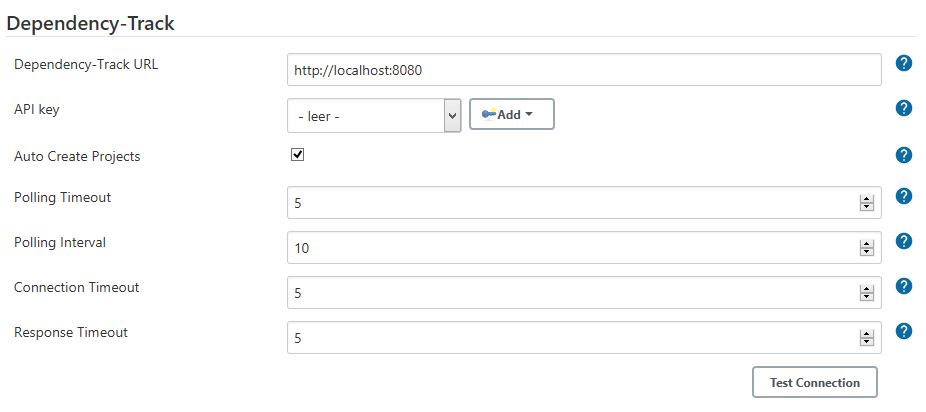
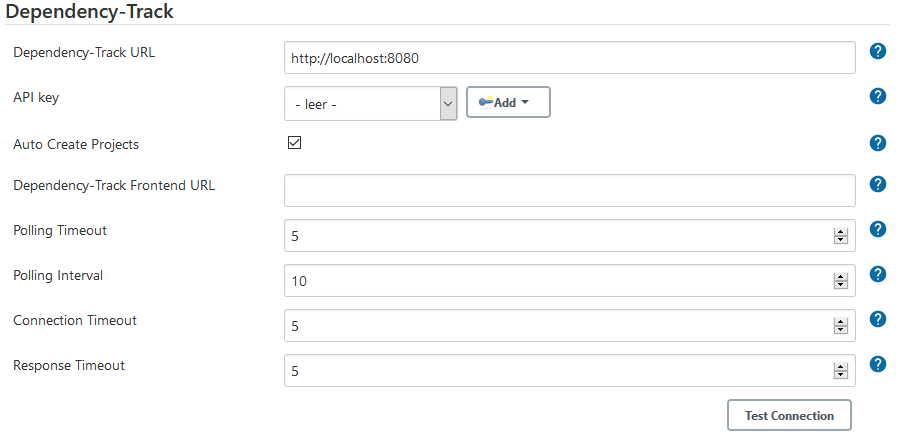
allow to specify an alternative URL to the frontend of Dependency-Track The frontend may be hosted on a different server and links in the log or result actions will not work in this case.
references #22

diff --git a/src/main/webapp/help-dt-url-frontend.html b/src/main/webapp/help-dt-url-frontend.html
@@ -1,0 +1,4 @@
+<div>
+    The alternative base URL to the Frontend of Dependency-Track v3 or higher. (i.e. http://hostname:port)
+    <p>Use this if you run backend and frontend on different servers. If omitted, "Dependency-Track URL" will be used instead.</p>
+</div>

diff --git a/src/main/java/org/jenkinsci/plugins/DependencyTrack/DependencyTrackPublisher.java b/src/main/java/org/jenkinsci/plugins/DependencyTrack/DependencyTrackPublisher.java
@@ -85,6 +85,11 @@ public final class DependencyTrackPublisher extends ThresholdCapablePublisher im
     private String dependencyTrackUrl;
 
     /**
+     * Specifies the alternative base URL to the frontend of Dependency-Track v3 or higher.
+     */
+    private String dependencyTrackFrontendUrl;
+
+    /**
      * Specifies the credential-id for an API Key used for authentication.
      */
     private String dependencyTrackApiKey;
@@ -168,12 +173,12 @@ public final class DependencyTrackPublisher extends ThresholdCapablePublisher im
         }
 
         // add ResultLinkAction even if it may not contain a projectId. but we want to store name version for the future.
-        final ResultLinkAction linkAction = new ResultLinkAction(effectiveUrl, projectId);
+        final ResultLinkAction linkAction = new ResultLinkAction(getEffectiveFrontendUrl(), projectId);
         linkAction.setProjectName(effectiveProjectName);
         linkAction.setProjectVersion(effectiveProjectVersion);
         run.addOrReplaceAction(linkAction);
 
-        logger.log(Messages.Builder_Success(String.format("%s/projects/%s", effectiveUrl, projectId != null ? projectId : StringUtils.EMPTY)));
+        logger.log(Messages.Builder_Success(String.format("%s/projects/%s", getEffectiveFrontendUrl(), projectId != null ? projectId : StringUtils.EMPTY)));
 
         if (synchronous && StringUtils.isNotBlank(uploadResult.getToken())) {
             publishAnalysisResult(logger, apiClient, uploadResult.getToken(), run, effectiveProjectName, effectiveProjectVersion);
@@ -203,12 +208,12 @@ public final class DependencyTrackPublisher extends ThresholdCapablePublisher im
         final SeverityDistribution severityDistribution = new SeverityDistribution(build.getNumber());
         findings.stream().map(Finding::getVulnerability).map(Vulnerability::getSeverity).forEach(severityDistribution::add);
         final ResultAction projectAction = new ResultAction(findings, severityDistribution);
-        projectAction.setDependencyTrackUrl(getEffectiveUrl());
+        projectAction.setDependencyTrackUrl(getEffectiveFrontendUrl());
         projectAction.setProjectId(projectId);
         build.addOrReplaceAction(projectAction);
 
         // update ResultLinkAction with one that surely contains a projectId
-        final ResultLinkAction linkAction = new ResultLinkAction(getEffectiveUrl(), projectId);
+        final ResultLinkAction linkAction = new ResultLinkAction(getEffectiveFrontendUrl(), projectId);
         linkAction.setProjectName(effectiveProjectName);
         linkAction.setProjectVersion(effectiveProjectVersion);
         build.addOrReplaceAction(linkAction);
@@ -263,7 +268,7 @@ public final class DependencyTrackPublisher extends ThresholdCapablePublisher im
         if (descriptor == null) {
             descriptor = getDescriptor();
         }
-        overrideGlobals = StringUtils.isNotBlank(dependencyTrackUrl) || StringUtils.isNotBlank(dependencyTrackApiKey) || autoCreateProjects != null;
+        overrideGlobals = StringUtils.isNotBlank(dependencyTrackUrl) ||StringUtils.isNotBlank(dependencyTrackFrontendUrl) || StringUtils.isNotBlank(dependencyTrackApiKey) || autoCreateProjects != null;
         return this;
     }
 
@@ -277,6 +282,7 @@ public final class DependencyTrackPublisher extends ThresholdCapablePublisher im
     private Object writeReplace() throws java.io.ObjectStreamException {
         if (!overrideGlobals) {
             dependencyTrackUrl = null;
+            dependencyTrackFrontendUrl = null;
             dependencyTrackApiKey = null;
             autoCreateProjects = null;
         }
@@ -294,6 +300,15 @@ public final class DependencyTrackPublisher extends ThresholdCapablePublisher im
     private String getEffectiveUrl() {
         String url = Optional.ofNullable(PluginUtil.parseBaseUrl(dependencyTrackUrl)).orElse(descriptor.getDependencyTrackUrl());
         return Optional.ofNullable(url).orElse(StringUtils.EMPTY);
+    }
+
+    /**
+     * @return effective dependencyTrackFrontendUrl
+     */
+    @NonNull
+    private String getEffectiveFrontendUrl() {
+        String url = Optional.ofNullable(PluginUtil.parseBaseUrl(dependencyTrackFrontendUrl)).orElse(descriptor.getDependencyTrackFrontendUrl());
+        return Optional.ofNullable(url).orElse(getEffectiveUrl());
     }
 
     /**

diff --git a/src/test/java/org/jenkinsci/plugins/DependencyTrack/DependencyTrackPublisherTest.java b/src/test/java/org/jenkinsci/plugins/DependencyTrack/DependencyTrackPublisherTest.java
@@ -257,6 +257,7 @@ public class DependencyTrackPublisherTest {
         DependencyTrackPublisher uut = new DependencyTrackPublisher(tmp.getName(), true, clientFactory);
         uut.setAutoCreateProjects(Boolean.TRUE);
         uut.setDependencyTrackUrl("foo");
+        uut.setDependencyTrackFrontendUrl("foo-ui");
         uut.setDependencyTrackApiKey("bar");
         uut.setOverrideGlobals(false);
 
@@ -268,6 +269,7 @@ public class DependencyTrackPublisherTest {
         try (ObjectInputStream ois = new ObjectInputStream(new ByteArrayInputStream(baos.toByteArray()))) {
             assertThat(ois.readObject()).isInstanceOfSatisfying(DependencyTrackPublisher.class, actual -> {
                 assertThat(actual.getDependencyTrackUrl()).isNull();
+                assertThat(actual.getDependencyTrackFrontendUrl()).isNull();
                 assertThat(actual.getDependencyTrackApiKey()).isNull();
                 assertThat(actual.getAutoCreateProjects()).isNull();
                 assertThat(actual.isOverrideGlobals()).isFalse();
@@ -281,6 +283,7 @@ public class DependencyTrackPublisherTest {
         DependencyTrackPublisher uut = new DependencyTrackPublisher(tmp.getName(), true, clientFactory);
         uut.setAutoCreateProjects(Boolean.TRUE);
         uut.setDependencyTrackUrl("foo");
+        uut.setDependencyTrackFrontendUrl("foo-ui");
         uut.setDependencyTrackApiKey("bar");
         uut.setOverrideGlobals(true);
 
@@ -292,6 +295,7 @@ public class DependencyTrackPublisherTest {
         try (ObjectInputStream ois = new ObjectInputStream(new ByteArrayInputStream(baos.toByteArray()))) {
             assertThat(ois.readObject()).isInstanceOfSatisfying(DependencyTrackPublisher.class, actual -> {
                 assertThat(actual.getDependencyTrackUrl()).isEqualTo("foo");
+                assertThat(actual.getDependencyTrackFrontendUrl()).isEqualTo("foo-ui");
                 assertThat(actual.getDependencyTrackApiKey()).isEqualTo("bar");
                 assertThat(actual.getAutoCreateProjects()).isTrue();
                 assertThat(actual.isOverrideGlobals()).isTrue();

diff --git a/src/main/java/org/jenkinsci/plugins/DependencyTrack/DescriptorImpl.java b/src/main/java/org/jenkinsci/plugins/DependencyTrack/DescriptorImpl.java
@@ -71,6 +71,12 @@ public final class DescriptorImpl extends BuildStepDescriptor<Publisher> impleme
     private String dependencyTrackUrl;
 
     /**
+     * Specifies the alternative base URL to the frontend of Dependency-Track v3 or higher.
+     */
+    @Setter(onMethod_ = {@DataBoundSetter})
+    private String dependencyTrackFrontendUrl;
+
+    /**
      * Specifies an API Key used for authentication (if authentication is
      * required).
      */
@@ -191,6 +197,16 @@ public final class DescriptorImpl extends BuildStepDescriptor<Publisher> impleme
     }
 
     /**
+     * Performs input validation when submitting the global config
+     *
+     * @param value The value of the URL as specified in the global config
+     * @return a FormValidation object
+     */
+    public FormValidation doCheckDependencyTrackFrontendUrl(@QueryParameter String value) {
+        return PluginUtil.doCheckUrl(value);
+    }
+
+    /**
      * Performs an on-the-fly check of the Dependency-Track URL and api key
      * parameters by making a simple call to the server and validating the
      * response code.
@@ -249,6 +265,14 @@ public final class DescriptorImpl extends BuildStepDescriptor<Publisher> impleme
     @CheckForNull
     public String getDependencyTrackUrl() {
         return PluginUtil.parseBaseUrl(dependencyTrackUrl);
+    }
+
+    /**
+     * @return global configuration for dependencyTrackFrontendUrl
+     */
+    @CheckForNull
+    public String getDependencyTrackFrontendUrl() {
+        return PluginUtil.parseBaseUrl(dependencyTrackFrontendUrl);
     }
 
     /**

diff --git a/src/test/java/org/jenkinsci/plugins/configuration/ConfigurationAsCodeTest.java b/src/test/java/org/jenkinsci/plugins/configuration/ConfigurationAsCodeTest.java
@@ -23,6 +23,7 @@ public class ConfigurationAsCodeTest {
 
         assertThat(descriptor)
                 .returns("https://example.org/deptrack", DescriptorImpl::getDependencyTrackUrl)
+                .returns("https://ui.example.org", DescriptorImpl::getDependencyTrackFrontendUrl)
                 .returns("R4nD0m", DescriptorImpl::getDependencyTrackApiKey)
                 .returns(false, DescriptorImpl::isDependencyTrackAutoCreateProjects)
                 .returns(5, DescriptorImpl::getDependencyTrackPollingTimeout)

diff --git a/README.md b/README.md
@@ -34,6 +34,8 @@ To setup, navigate to Jenkins > System Configuration and complete the Dependency
 
 **Auto Create Projects**: auto creation of projects by giving a project name and version. The API key provided requires the `PROJECT_CREATION_UPLOAD` permission to use this feature.
 
+**Dependency-Track Frontend URL**: alternative URL to the Frontend of your Dependency-Track instance. Use this if you run backend and frontend on different servers. If omitted, "Dependency-Track URL" will be used instead.
+
 **Polling Timeout**: Defines the maximum number of minutes to wait for Dependency-Track to process a job when using synchronous publishing.
 
 **Polling Interval**: Defines the number of seconds to wait between two checks for Dependency-Track to process a job when using synchronous publishing.
@@ -57,7 +59,7 @@ Once configured with a valid URL and API key, simply configure a job to publish 
 
 **Enable synchronous publishing mode**: Uploads a SBOM to Dependency-Track and waits for Dependency-Track to process and return results. The results returned are identical to the auditable findings but exclude findings that have previously been suppressed. Analysis decisions and vulnerability details are included in the response. Synchronous mode is possible with Dependency-Track v3.3.1 and higher.
 
-**Override global settings**: Allows to override global settings for "Auto Create Projects", "Dependency-Track URL" and "API key".
+**Override global settings**: Allows to override global settings for "Auto Create Projects", "Dependency-Track URL", "Dependency-Track Frontend URL" and "API key".
 
 ### Thresholds
 

diff --git a/CHANGELOG.md b/CHANGELOG.md
@@ -1,6 +1,9 @@
 # Dependency-Track Jenkins Plugin - Changelog
 
 ## Unreleased
+### ⭐ New Features
+- allow to specify an alternative URL for the Dependency-Track Frontend (fixes [#22](https://github.com/jenkinsci/dependency-track-plugin/issues/22))
+
 ### 🐞 Bugs Fixed
 - verify that `projectId` is set when auto create projects is not enabled
 
